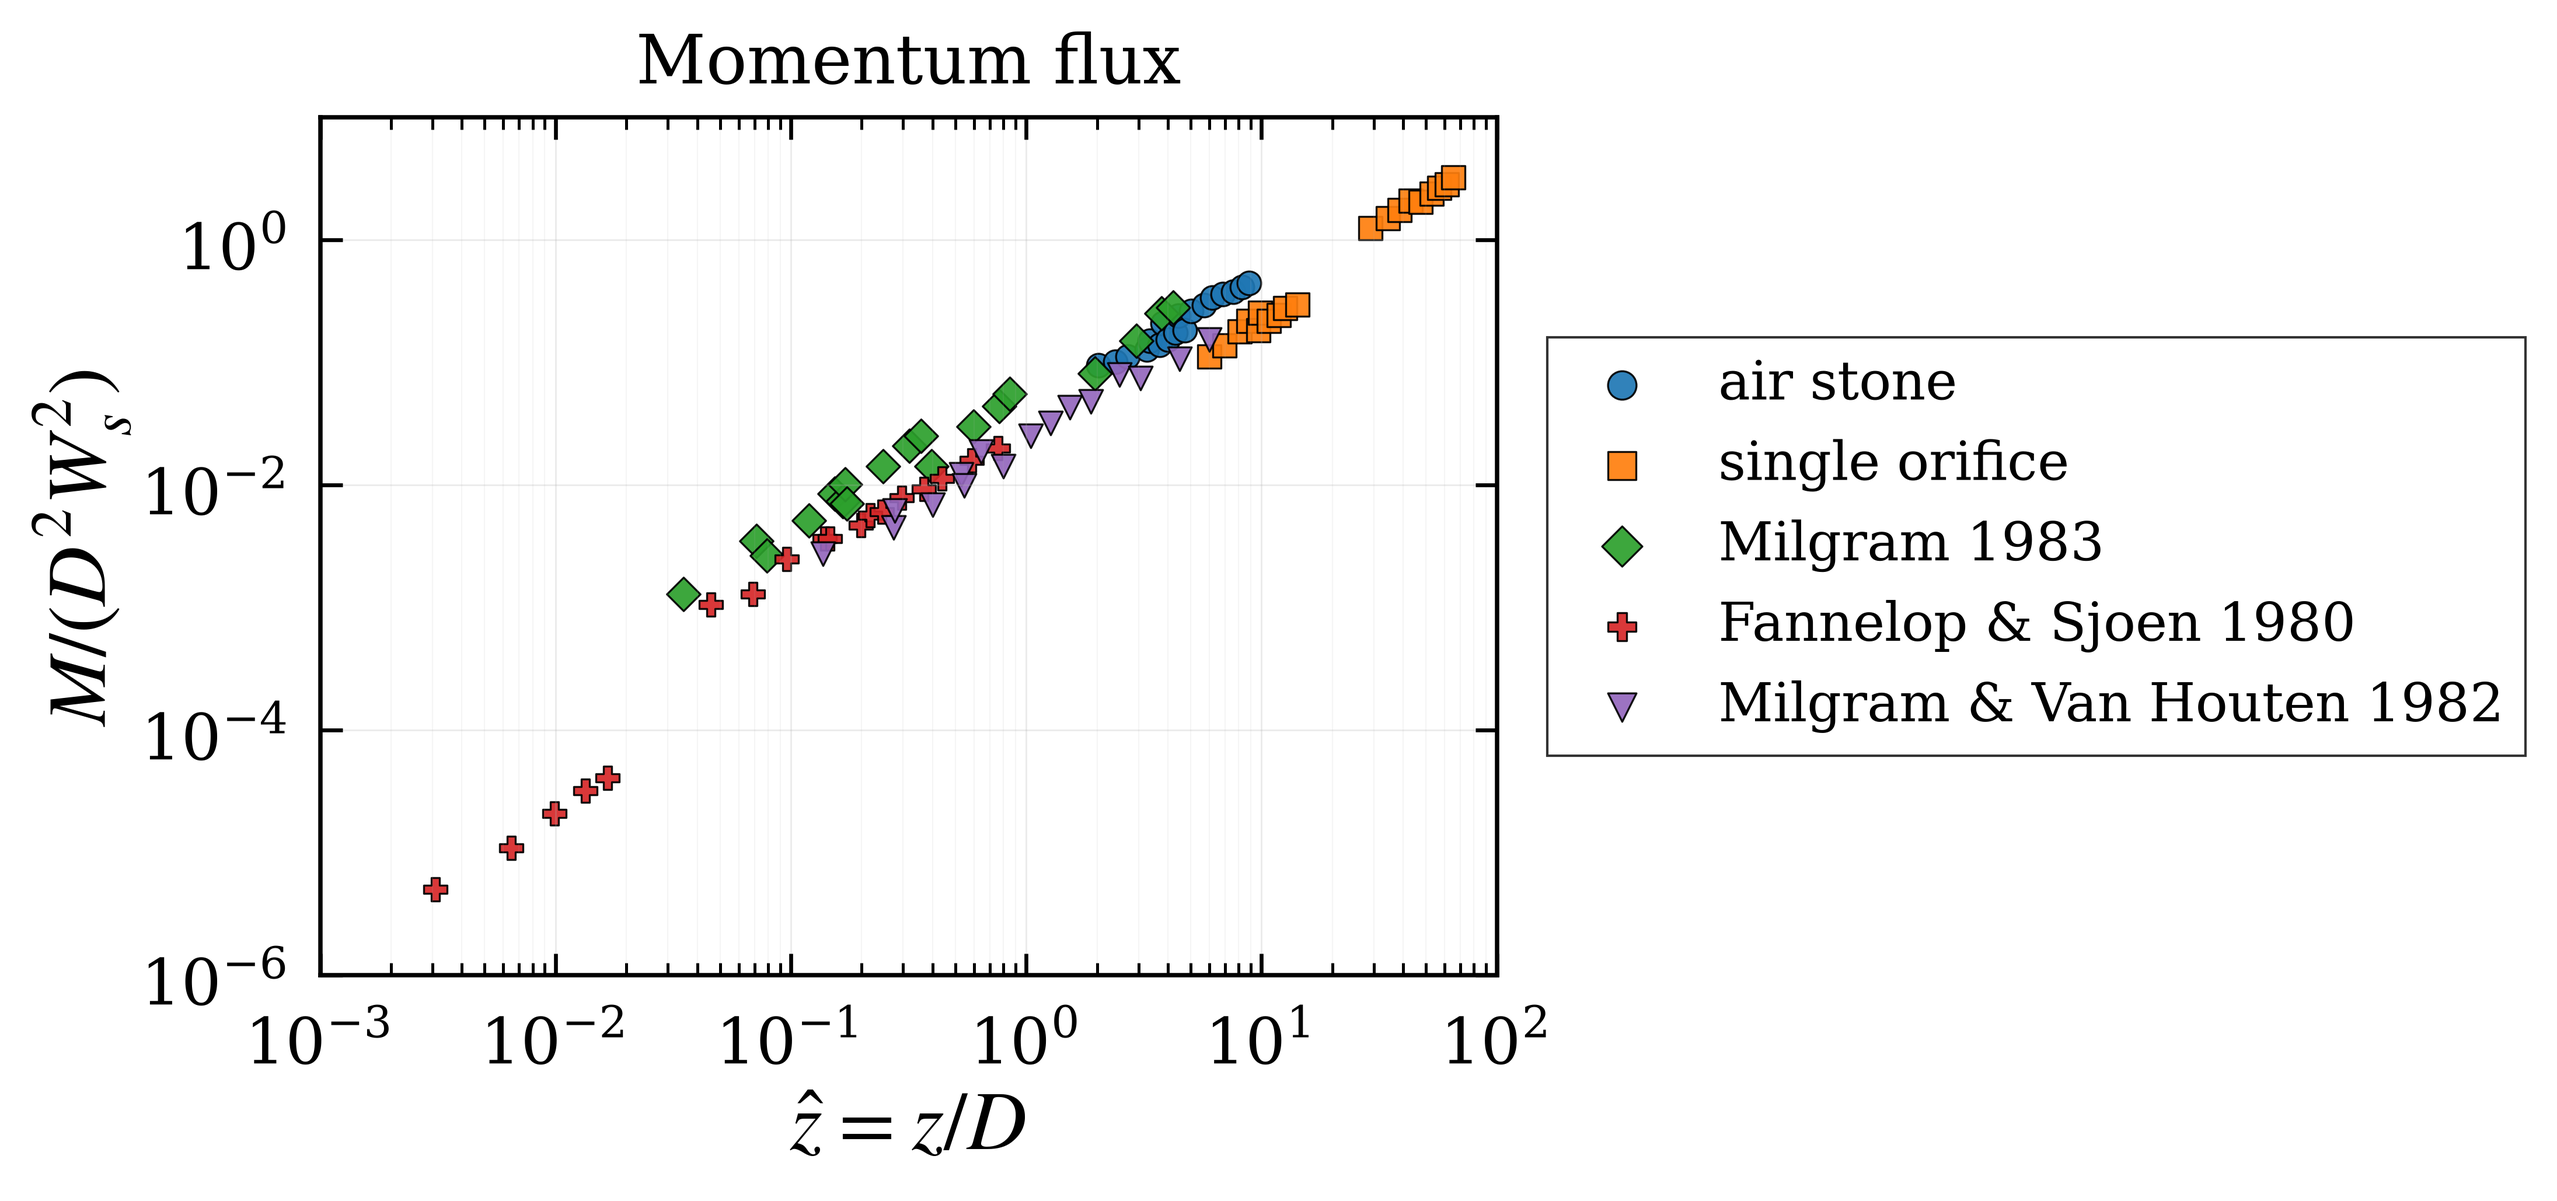
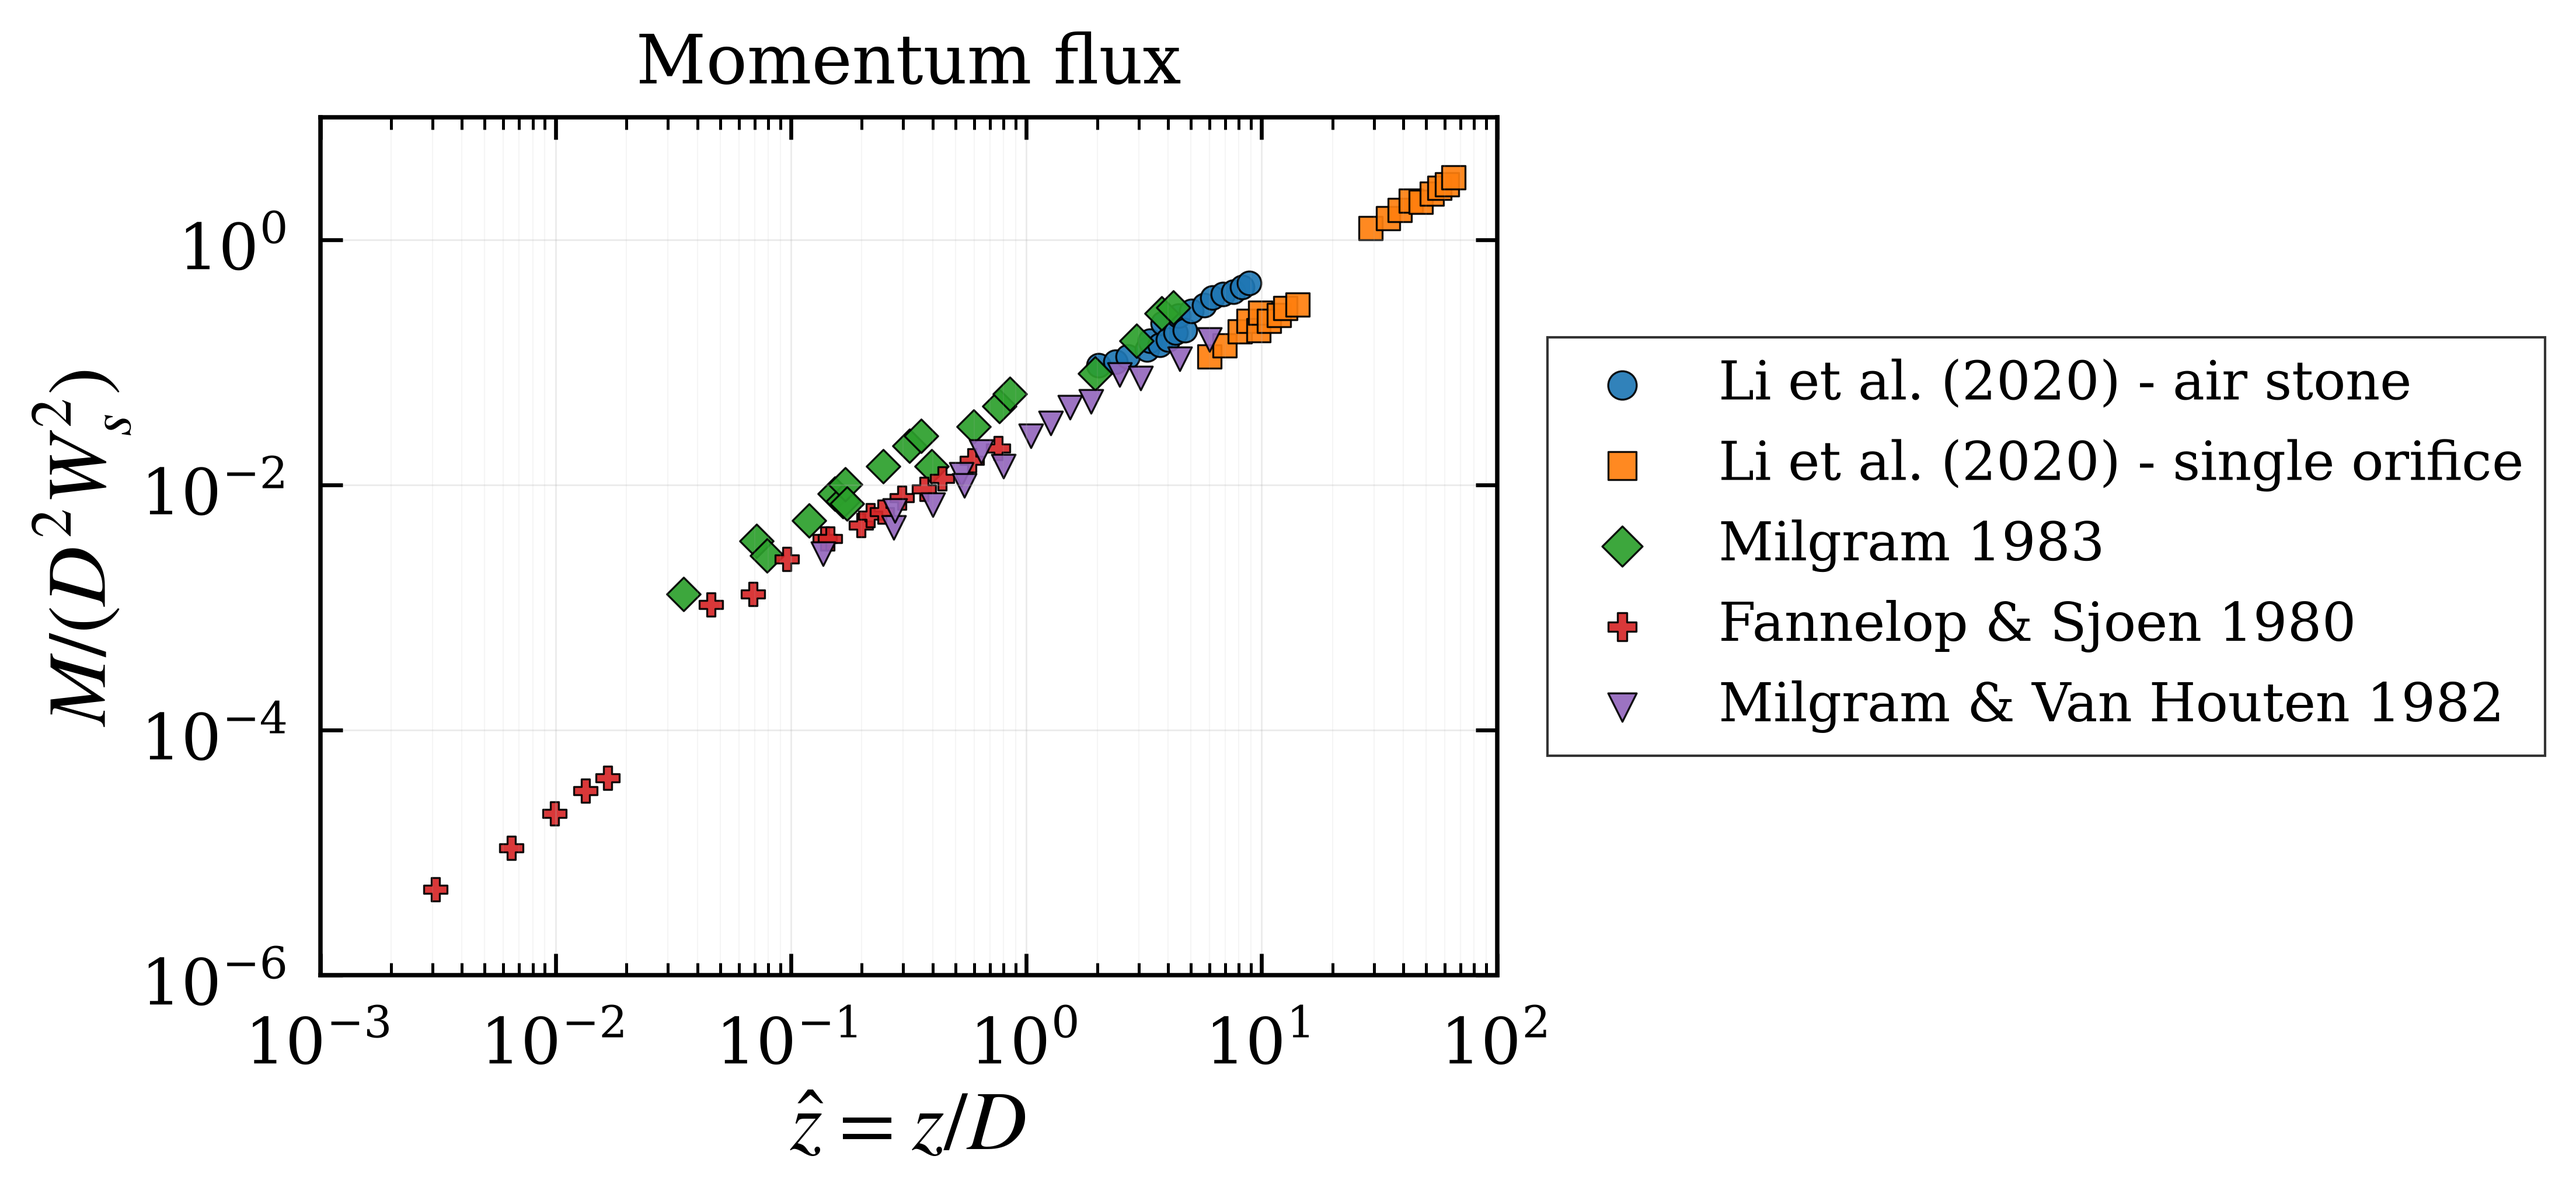
updated_notes

diff --git a/index.html b/index.html
@@ -85,10 +85,11 @@
                 <a class="download-link" href="csv/paper_data_downloads/xlsx/papers/milgram_1983.xlsx" download>XLSX</a>
               </td>
               <td>
-                Selected dimensional tabular data from Milgram&rsquo;s compiled mean-flow tables. The data
-                combine several source studies, so use <code>source_table</code> and
-                <code>source_study</code> to identify each block. Useful for plume width, velocity, flux,
-                gamma, and alpha values where reported.
+                Compiled mean-flow dataset from Milgram&rsquo;s analysis of several experimental sources,
+                including Milgram &amp; Van Houten (1982), Fannelop &amp; Sjoen (1980), and larger-scale
+                Bugg Spring measurements. The data include radial velocity-profile information reduced
+                to plume width, centerline velocity, flux, gamma, and alpha where available. Use
+                <code>source_table</code> and <code>source_study</code> to identify each data block.
               </td>
             </tr>
             <tr>
@@ -112,10 +113,11 @@
                 <a class="download-link" href="csv/paper_data_downloads/xlsx/papers/li_2020.xlsx" download>XLSX</a>
               </td>
               <td>
-                Quiescent, unstratified-water experiments comparing air-stone and single-orifice bubble
-                plumes. The dataset provides nondimensional scaling curves for plume half-width,
-                centerline velocity, volume flux, and momentum flux. Air-stone and single-orifice series
-                are kept as separate paired columns.
+                Experiments in quiescent, unstratified water comparing air-stone and single-orifice
+                bubble plumes. The Li et al. 2020 data include nondimensionalized plume half-width,
+                centerline velocity, volume flux, and momentum flux; some literature-comparison series
+                are also taken from the nondimensionalized plots in Li et al. (2020). Air-stone and
+                single-orifice cases are stored as separate paired series.
               </td>
             </tr>
             <tr>
@@ -139,9 +141,11 @@
                 <a class="download-link" href="csv/paper_data_downloads/xlsx/papers/wang_lai_socolofsky_2019.xlsx" download>XLSX</a>
               </td>
               <td>
-                Weak bubble-plume experiments in unstratified, stationary water. The dataset includes
-                normalized mean velocity, plume half-width, apparent entrainment coefficient, volume flux,
-                and momentum flux. Current data are organized by Q1 and Q2 flow cases.
+                Large-scale weak bubble-plume experiments in unstratified, stationary water. The plume
+                was generated from a 0.4 mm nozzle in the OTRC basin/pit, with Q1 = 0.25 NL/min and
+                Q2 = 1.2 NL/min measured at five heights from 0.5 to 16 m. The dataset includes
+                normalized mean velocity, plume half-width, apparent entrainment coefficient, volume
+                flux, and momentum flux.
               </td>
             </tr>
             <tr>
@@ -164,9 +168,10 @@
                 <a class="download-link" href="csv/paper_data_downloads/xlsx/papers/kobus_1968.xlsx" download>XLSX</a>
               </td>
               <td>
-                Single-orifice mean-flow data from an early air-bubble-system study. The current dataset
-                includes centerline velocity, radial velocity profiles, and volume-flux ratio.
-                Row-of-orifices data are not included in this first version.
+                Early air-bubble-system study measuring vertical velocities above air discharging into
+                water. The current repository file includes only the single-orifice data: centerline
+                velocity, radial velocity profiles, and volume-flux ratio. Row-of-orifices data are not
+                included in this first version.
               </td>
             </tr>
             <tr>
@@ -190,9 +195,10 @@
                 <a class="download-link" href="csv/paper_data_downloads/xlsx/papers/seol_et_al_2007.xlsx" download>XLSX</a>
               </td>
               <td>
-                PIV-based bubble-plume study focused on mean-flow characteristics. The current repository
-                file includes only entrainment-coefficient alpha data from selected figures. Other
-                velocity-field quantities from the paper are not included in this first alpha-only version.
+                PIV/PTV bubble-plume study in quiescent, unstratified ambient water. The current
+                repository file includes only entrainment-coefficient alpha data from selected figures.
+                The alpha data include variation with nondimensional height, bubble Froude number, and
+                dimensionless slip-velocity parameter.
               </td>
             </tr>
             <tr>
@@ -215,10 +221,11 @@
                 <a class="download-link" href="csv/paper_data_downloads/xlsx/papers/mingotti_woods_2023.xlsx" download>XLSX</a>
               </td>
               <td>
-                Continuous bubble-plume experiments in the slip-plume regime. The dataset includes
-                bubble-radius spreading coefficient, liquid-to-bubble radius ratio, liquid-to-bubble
-                velocity ratio, and the slip-plume volume-flux coefficient lambda. Lambda is not the same
-                as the classical entrainment coefficient alpha.
+                Continuous bubble-plume experiments focused on the slip-plume regime, where bubble
+                motion and liquid motion remain strongly separated. The dataset includes bubble-radius
+                spreading coefficient, liquid-to-bubble radius ratio, liquid-to-bubble velocity ratio,
+                and the slip-plume volume-flux coefficient lambda. Lambda is a slip-plume volume-flux
+                coefficient, not the classical entrainment coefficient alpha.
               </td>
             </tr>
             <tr>
@@ -242,9 +249,10 @@
                 <a class="download-link" href="csv/paper_data_downloads/xlsx/papers/fraga_et_al_2016.xlsx" download>XLSX</a>
               </td>
               <td>
-                LES-based Eulerian&ndash;Lagrangian computational bubble-plume dataset. The reconstructed data
-                include plume radius, entrainment velocity, mass/volume flux, and centerline velocity
-                scaling. Series are grouped by bubble diameter, <em>D</em><sub>p</sub> = 1, 2, and 4 mm.
+                LES-based Eulerian&ndash;Lagrangian computational bubble-plume dataset validated against
+                ADV/PIV measurements. The reconstructed data include plume radius, entrainment velocity,
+                mass/volume flux, and centerline velocity scaling. Series are grouped by bubble diameter,
+                <em>D</em><sub>p</sub> = 1, 2, and 4 mm.
               </td>
             </tr>
           </tbody>
